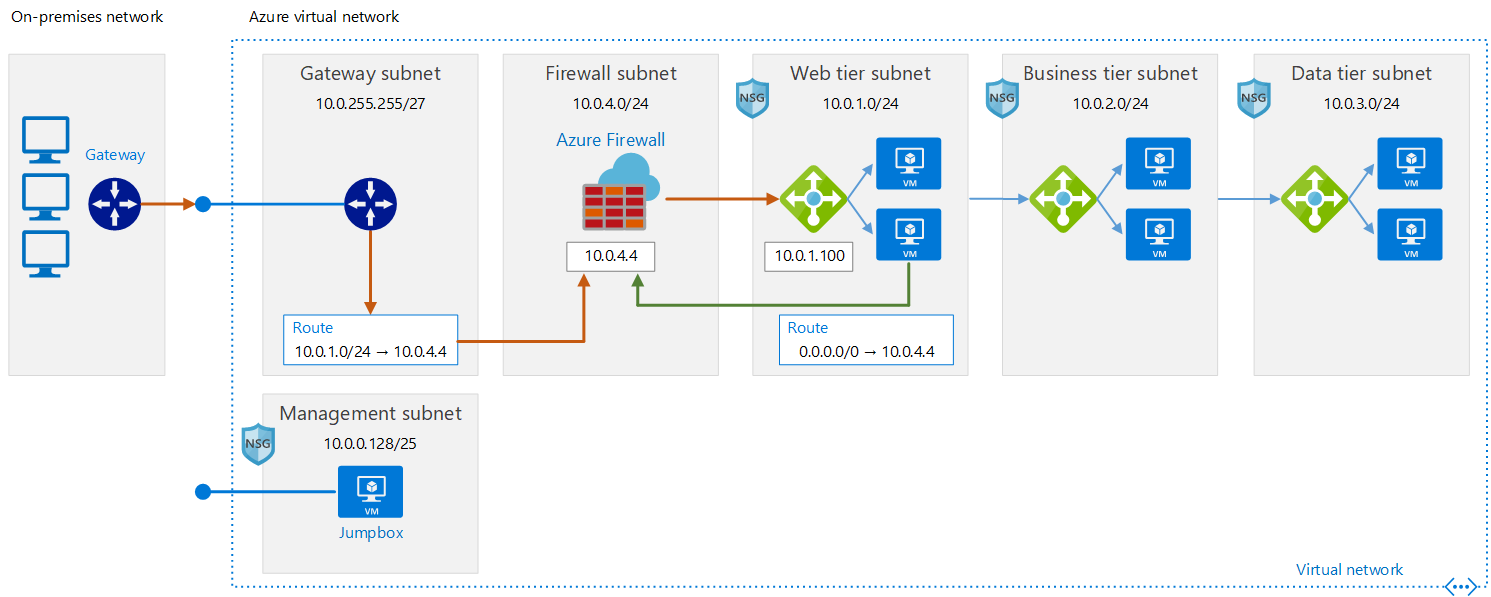
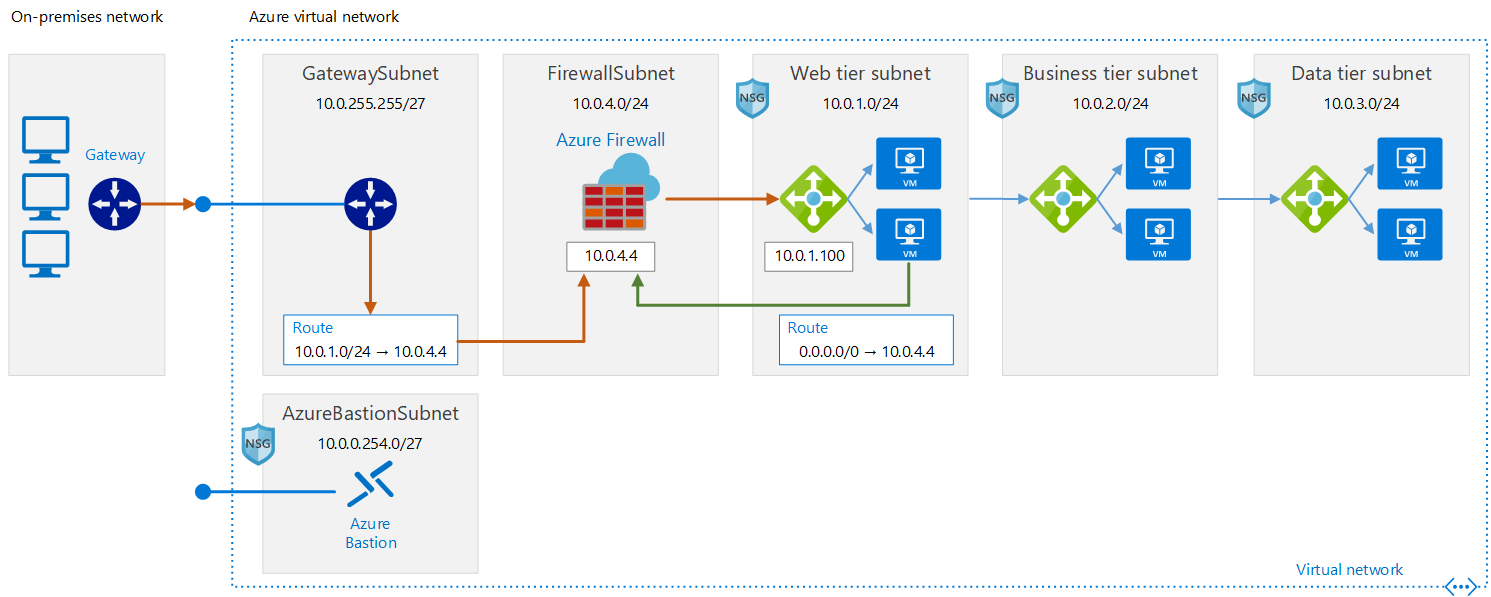
Update to rover version, support for 2.4.0 and updated doc

Changed region(s): [[0.1851, 0.6633, 0.3085, 0.9347], [0.1851, 0.0905, 0.3085, 0.1508], [0.3702, 0.0905, 0.4628, 0.1508]]

diff --git a/landingzones/landingzone_hub_spoke/readme.md b/landingzones/landingzone_hub_spoke/readme.md
@@ -1,8 +1,9 @@
-# Introduction to Network DMZ between Azure and an on-premises datacenter landing zone
+# Introduction to Hub-spoke network topology in Azure landing zone
 
 Welcome to Azure Cloud Adoption Framework Series.
 
-This landing zone is an implementation of the following reference architecture: <https://docs.microsoft.com/en-gb/azure/architecture/reference-architectures/dmz/secure-vnet-dmz>
+This landing zone is an implementation of the following reference architecture: <https://docs.microsoft.com/en-us/azure/architecture/reference-architectures/hybrid-networking/hub-spoke>
+. Current edition does not implement spoke virtual networks or resources but shall be added later.
 
 ## Prerequisites
 
@@ -12,7 +13,7 @@ This landing zone is a "level 2" type of landing zone, which **requires** you ha
 
 The following diagram shows the environment we are deploying for this POC:
 
-![DMZ](../../_pictures/dmz/dmz-private.png)
+![DMZ](../../_pictures/hub_spoke/hybrid-network-hub-spoke.png)
 
 ## Getting Started
 
@@ -21,15 +22,15 @@ To deploy a landing zone, use the execution environnement as described at the ro
 ## Deploying this landing zone
 
 ```
-rover /tf/caf/landingzones/landingzone_secure_vnet_dmz plan
+rover /tf/caf/landingzones/landingzone_hub_spoke plan
 ```
 Review the configuration and if you are ok with it, deploy it by running:
 ```
-rover /tf/caf/landingzones/landingzone_secure_vnet_dmz apply
+rover /tf/caf/landingzones/landingzone_hub_spoke apply
 ```
 Have fun playing with the landing zone an once you are done, you can simply delete the deployment using:
 ```
-rover /tf/caf/landingzones/landingzone_secure_vnet_dmz destroy
+rover /tf/caf/landingzones/landingzone_hub_spoke destroy
 ```
 
 More details about this landing zone can also be found in the landing zone folder and its blueprints sub-folders.

diff --git a/CHANGELOG.md b/CHANGELOG.md
@@ -2,16 +2,16 @@
 
 FEATURES:
 
-* **rover :** upgrade to rover 2003.2503 - added support for Terraform v0.12.24
+* **rover :** upgrade to rover 2004.0211 - added support for Terraform v0.12.24
 * **added support for azurecaf provider :** Overall usage of new [azurecaf provider](https://github.com/aztfmod/terraform-provider-azurecaf) for naming convention
 * **landingzone_hub_spoke :** introducing landingzone_hub_spoke as a sample of hub and spoke topology [#13](
 https://github.com/Azure/caf-terraform-landingzones/issues/13)
 * **landingzone_caf_foundations :** Added toggle feature for management group deployment control (disabled by default)
-* **landingzone_caf_foundations :** Added support for azurerm 2.x [#23](
+* **landingzone_caf_foundations :** Added support for azurerm 2.4 [#23](
 https://github.com/Azure/caf-terraform-landingzones/issues/23)
-* **landingzone_vdc_demo:** Added support for azurerm 2.x [#23](
+* **landingzone_vdc_demo:** Added support for azurerm 2.4 [#23](
 https://github.com/Azure/caf-terraform-landingzones/issues/23)
-* **landingzone_secure_vnet_dmz:** Added support for azurerm 2.x [#23](
+* **landingzone_secure_vnet_dmz:** Added support for azurerm 2.4 [#23](
 https://github.com/Azure/caf-terraform-landingzones/issues/23)
 
 
